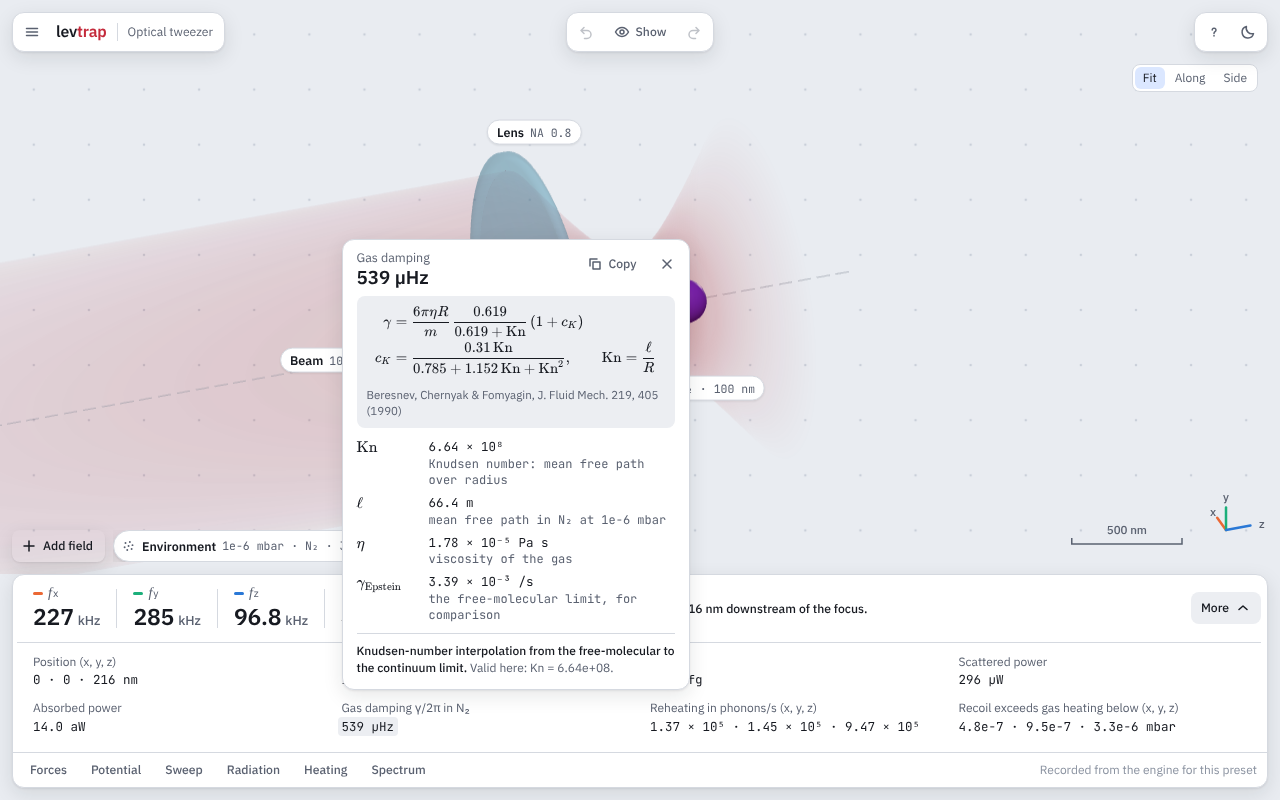
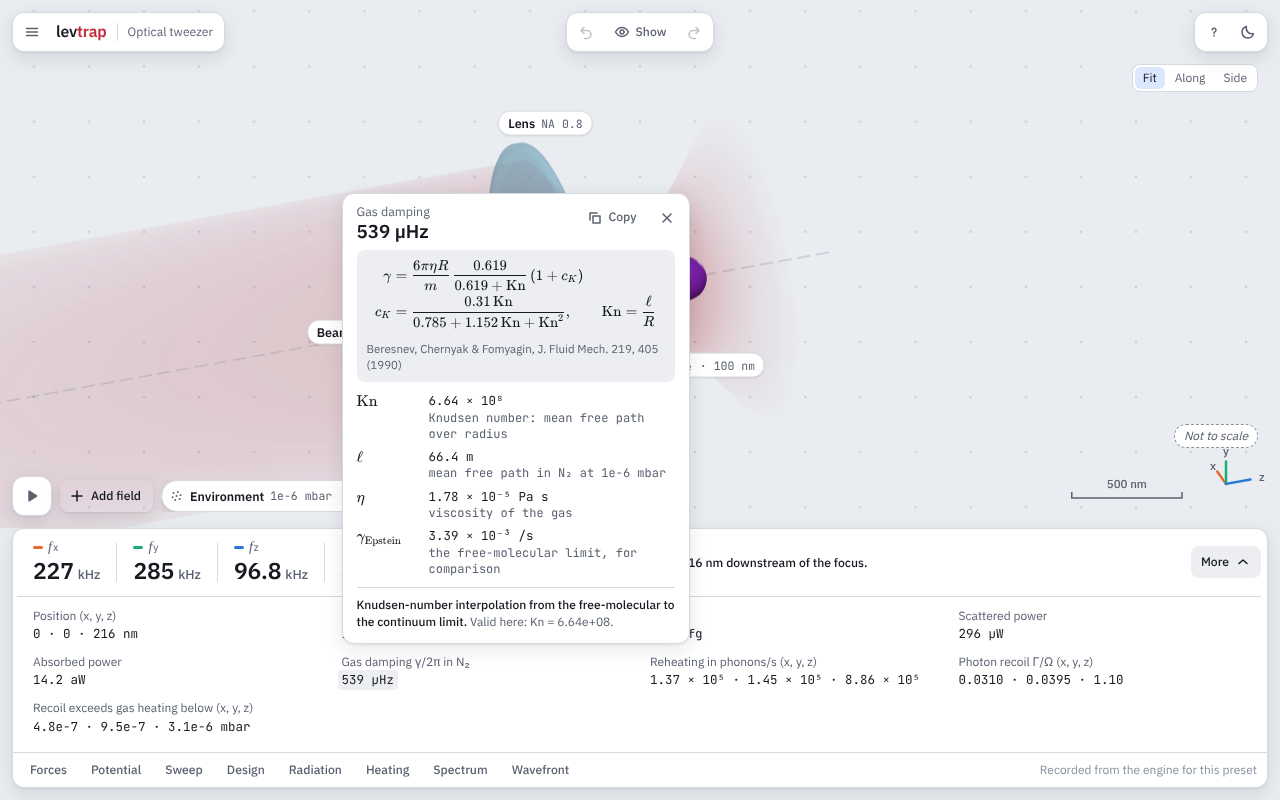
#78: the recoil explanation fits the window; its spec reads the row's label
- an explanation in the right half of the window opens leftwards
  (data-open-end), and a long one scrolls (max-height) instead of running
  off the top: the recoil row is the rightmost of More, with seven inputs
- the inputs' symbol column is as wide as the widest symbol, so
  Gamma_beam,x/Omega_x no longer runs into its value
- recoil.spec.ts: the label is the row's <dt>, the button holds the values
- screenshots: the recoil explanation (light, dark), More, and the two
  explanations whose layout moved

Claude-Session: https://claude.ai/code/session_019er84A64vbK3rQVCb3synE

diff --git a/app/src/screen/ResultsStrip.tsx b/app/src/screen/ResultsStrip.tsx
@@ -165,7 +165,7 @@ function Figure({ id, label, value, unit, also, open, onOpen, explain }: FigureP
   const close = useCallback(() => onOpen(false), [onOpen]);
   useDismiss(node, open, close);
   return (
-    <div className={styles.cell} ref={setNode}>
+    <div className={styles.cell} ref={setNode} data-open-end={opensLeftwards(node, open)}>
       <button
         type="button"
         className={styles.number}
@@ -194,6 +194,12 @@ function Figure({ id, label, value, unit, also, open, onOpen, explain }: FigureP
   );
 }
 
+/** An explanation (348 px) that would run past the window's right edge opens leftwards instead. */
+function opensLeftwards(node: HTMLElement | null, open: boolean): "" | undefined {
+  if (!open || !node || typeof window === "undefined") return undefined;
+  return node.getBoundingClientRect().left + 360 > window.innerWidth ? "" : undefined;
+}
+
 function Popover({ explain, onClose }: { explain: () => Explanation; onClose(): void }) {
   return (
     <Suspense fallback={null}>
@@ -217,7 +223,7 @@ function Pair({ id, label, value, explain, open, onOpen }: PairProps) {
   const close = useCallback(() => onOpen(false), [onOpen]);
   useDismiss(node, open, close);
   return (
-    <div className={styles.pair} ref={setNode}>
+    <div className={styles.pair} ref={setNode} data-open-end={opensLeftwards(node, open)}>
       <dt>{label}</dt>
       <dd>
         <button

diff --git a/app/src/screen/ResultsStrip.module.css b/app/src/screen/ResultsStrip.module.css
@@ -308,8 +308,18 @@
   bottom: calc(100% + 10px);
   left: 0;
   width: 348px;
+  /* a long explanation (#78: seven inputs) scrolls rather than running off the top */
+  max-height: min(70dvh, 560px);
+  overflow-y: auto;
   padding: 12px 14px 12px;
   text-align: left;
+}
+
+/* a number in the right half of the window opens its explanation leftwards, inside the window */
+.pair[data-open-end] > .explain,
+.cell[data-open-end] > .explain {
+  left: auto;
+  right: 0;
 }
 
 .explainHead {
@@ -364,14 +374,14 @@
 
 .inputs {
   display: grid;
-  gap: 6px;
+  /* the symbols' column as wide as the widest symbol (#78: Γ_beam,x/Ω_x), at least 64 px */
+  grid-template-columns: minmax(64px, max-content) minmax(0, 1fr);
+  gap: 6px 8px;
   margin: 0 0 10px;
 }
 
 .input {
-  display: grid;
-  grid-template-columns: 64px minmax(0, 1fr);
-  column-gap: 8px;
+  display: contents;
   font-size: 12.5px;
 }
 

diff --git a/app/tests/e2e/recoil.spec.ts b/app/tests/e2e/recoil.spec.ts
@@ -14,7 +14,9 @@ for (const scheme of ["light", "dark"] as Scheme[]) {
     await settled(page);
     await page.getByTestId("more").click();
     const recoil = page.getByTestId("more-recoil");
-    await expect(recoil).toContainText("Photon recoil Γ/Ω");
+    // the row's label is its <dt>; the button holds the three values, x · y · z
+    await expect(page.getByTestId("more-numbers")).toContainText("Photon recoil Γ/Ω");
+    await expect(recoil).toHaveText(/^[\d.]+ · [\d.]+ · [\d.]+$/);
     await recoil.click();
     const explain = page.getByTestId("explain");
     await expect(page.getByTestId("formula")).toHaveAttribute("data-formula", "recoil");
